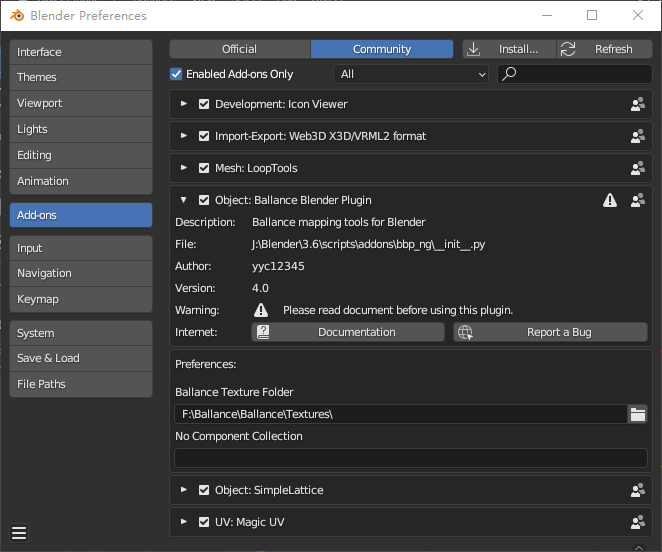
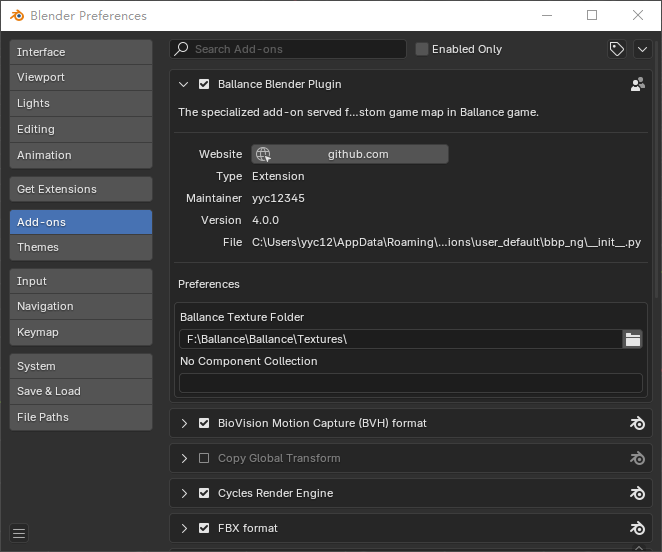
fix: fix various trivial issues
- update blender_manifest.toml to the latest version and fix the issues raised by blender when packaging.
- use blender do packaging work. remove redist.py because blender_manifest.toml has gitignore like filter feature when packaging.
- update document about installing, configurating, building plugin for blender 4.2.
- update a document image for blender 4.2.

diff --git a/bbp_ng/tools/common.py b/bbp_ng/tools/common.py
@@ -63,84 +63,3 @@ def common_file_migrator(
             dst_file: str = relative_to_folder(src_file, from_folder, to_folder)
             # call handler
             fct_proc_file(src_file, dst_file)
-
-def conditional_file_copy(
-        from_folder: str, to_folder: str,
-        only_copy: tuple[str, ...] | None = None,
-        ignore_copy: tuple[str, ...] | None = None,
-        recursively: bool = False) -> None:
-    """
-    The enhanced file tree copy function used in redist script.
-
-    The name of file or folder will be checked by `only_copy` first,
-    it it decide this file or folder should be copied, we then check whether
-    it is in `ignore_copy`.
-
-    @param from_folder[in] The folder need to be redist.
-    @param to_folder[in] The folder will be placed redist files.
-    @param only_copy[in] An Unix style pathname pattern tuple to instruct which files or folders should be copied, 
-    or None if we want to copy every files and folders.
-    @param ignore_copy[in] An Unix style pathname pattern tuple to instruct which files or folders should not be copied,
-    or None if we want to copy every files and folders.
-    @param recursively[in] Whether recursively copy sub-folders and their files.
-    """
-    # build a helper functions
-    def is_need_copy(checked_filename: str) -> bool:
-        # if only_copy enabled, check it.
-        # if no only_copy, pass the check because file should be copied in default.
-        if only_copy is not None:
-            for only_copy_item in only_copy:
-                # matched, should copy it, break this for syntax
-                if fnmatch.fnmatch(checked_filename, only_copy_item):
-                    break
-            else:
-                # no matched item, this entry should not be copied.
-                return False
-            
-        if ignore_copy is not None:
-            # check whether given name is in ignore_copy
-            for ignore_copy_item in ignore_copy:
-                # matched, should not be copied
-                if fnmatch.fnmatch(checked_filename, only_copy_item):
-                    return False
-            # no matched, copy it
-            return True
-        else:
-            # no ignore_copy, directly copy it
-            return True
-
-    # iterate from_folder folder
-    for root, dirs, files in os.walk(from_folder, topdown = True):
-        # create self
-        src_self: str = root
-        dst_self: str = relative_to_folder(src_self, from_folder, to_folder)
-        print(f'Creating: {src_self} -> {dst_self}')
-        os.makedirs(dst_self, exist_ok=True)
-
-        # iterate files
-        for name in files:
-            # get source file path
-            src_file: str = os.path.join(root, name)
-            # check whether copy it
-            if not is_need_copy(src_file):
-                continue
-            # build dst path and copy it
-            dst_file: str = relative_to_folder(src_file, from_folder, to_folder)
-            print(f'Copying: {src_file} -> {dst_file}')
-            shutil.copy(src_file, dst_file)
-            
-        # iterate folders when recursively flag enabled
-        # if recursively:
-        #     for name in dirs:
-        #         # get source folder path
-        #         src_folder: str = os.path.join(root, name)
-        #         # build dst path and create it
-        #         dst_folder: str = relative_to_folder(src_folder, from_folder, to_folder)
-        #         print(f'Copying: {src_folder} -> {dst_folder}')
-        #         os.makedirs(dst_folder, exist_ok=True)
-
-        # if we don't have recursively flag, 
-        # we should exit at the end of first loop
-        if not recursively:
-            break
-

diff --git a/docs/docs/zh-cn/configure-plugin.md b/docs/docs/zh-cn/configure-plugin.md
@@ -7,7 +7,7 @@
 
 ## 打开配置面板
 
-开启Blender，选择`Edit - Preferences`，在打开的窗口中转到`Add-ons`选项卡，在`Community`分类下找到BBP插件，名称为`Object: Ballance Blender Plugin`。请确保其左侧的勾已被选中，代表插件已被启用。点击勾左侧的三角箭头展开插件详细信息，如图所示，进入配置面板。
+开启Blender，选择`Edit - Preferences`，在打开的窗口中转到`Add-ons`选项卡，在列表中找到BBP插件，其名称为`Ballance Blender Plugin`。请确保其左侧的勾已被选中，代表插件已被启用。点击勾左侧的三角箭头展开插件详细信息，如图所示，进入配置面板。
 
 ![](../imgs/config-plugin.png)
 
